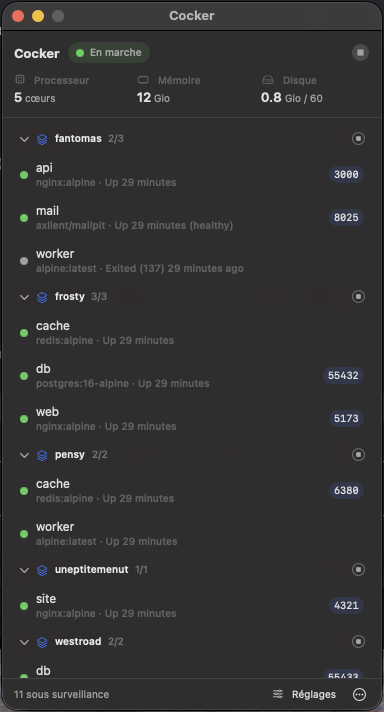
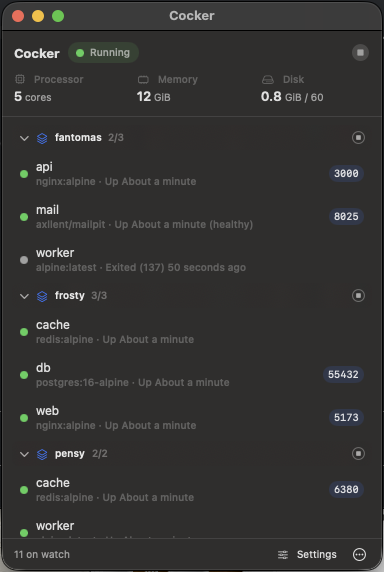
Retake the screenshots in English
The README is English but every screenshot showed a French interface, which
made the project look like it shipped in a language its own documentation did
not use.

Retaking them surfaced a gap in the localization: window titles are declared on
the Scene, outside the SwiftUI environment, so the setup assistant kept its
French title whatever the chosen language. It is a key now. Scene titles follow
AppleLanguages rather than the environment locale, so unlike the rest of the
interface they only settle on the next launch.

Also adds the General and Housekeeping tabs and the finished assistant screen,
which had no picture at all.

diff --git a/Sources/Cocker/CockerApp.swift b/Sources/Cocker/CockerApp.swift
@@ -22,7 +22,7 @@ struct CockerApp: App {
         }
         .menuBarExtraStyle(.window)
 
-        Window("Dressage de Cocker", id: WindowID.onboarding) {
+        Window("Cocker Setup", id: WindowID.onboarding) {
             OnboardingView()
                 .environment(state)
                 .environment(\.locale, state.preferences.language.locale)

diff --git a/README.md b/README.md
@@ -36,9 +36,13 @@ The colima VM keeps running after you quit Cocker: `docker` still answers in you
 terminal until you stop it explicitly.
 
 <p align="center">
-  <img src="docs/screenshots/onboarding-welcome.png" width="290" alt="Setup assistant, welcome screen">
-  <img src="docs/screenshots/onboarding-resources.png" width="290" alt="Setup assistant, allocating resources">
-  <img src="docs/screenshots/logs.png" width="290" alt="Container logs window">
+  <img src="docs/screenshots/onboarding-welcome.png" width="270" alt="Setup assistant, welcome screen">
+  <img src="docs/screenshots/onboarding-resources.png" width="270" alt="Setup assistant, allocating resources">
+  <img src="docs/screenshots/onboarding-done.png" width="270" alt="Setup assistant, finished">
+</p>
+
+<p align="center">
+  <img src="docs/screenshots/logs.png" width="560" alt="Container logs window, following a running container">
 </p>
 
 ## Requirements
